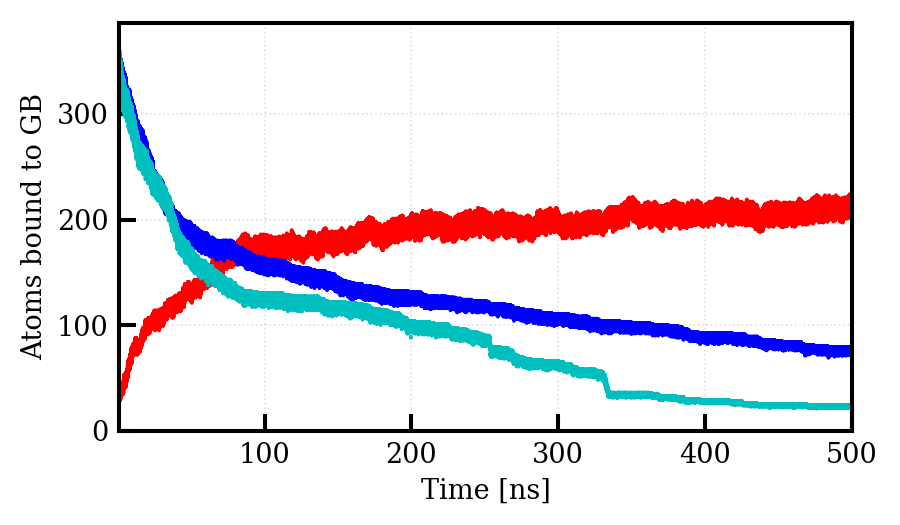
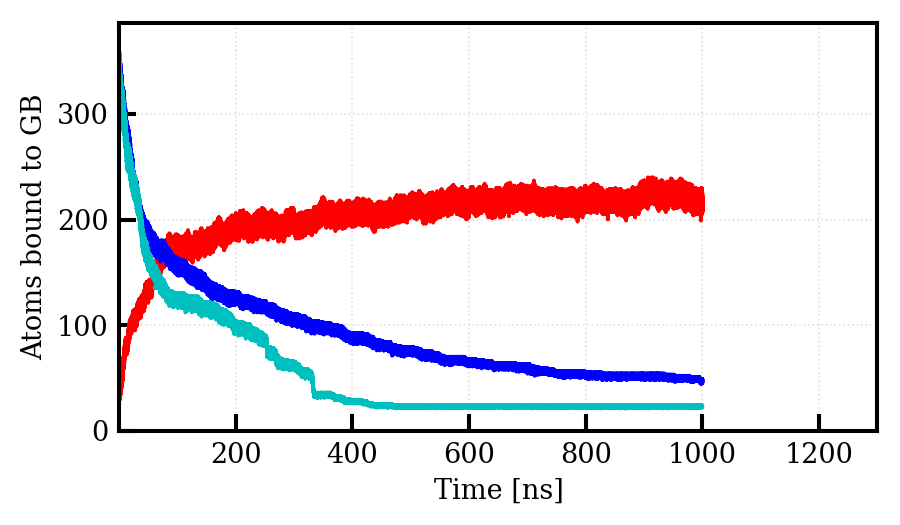
update plotting scripts

diff --git a/figures/plot_GB_isoEx_comp.py b/figures/plot_GB_isoEx_comp.py
@@ -2,8 +2,7 @@ import numpy as np
 import matplotlib.pyplot as plt
 from plotStyle import *
 
-#path = '/media/otto/myDrive/isoEx_NVT/GB_isoEx_results/'
-path = '../../isoEx_NVT/GB_isoEx_results/'
+path = '/home/otto/Drive2/isoEx_NVT/GB_isoEx_results/'
 
 # ============================== READ DATA ==============================
 # Function for reading columnsToRead=[i,j,...] columns from file 'fname'
@@ -20,8 +19,8 @@ def readData(fname, columnsToRead):
     return np.array(data)
 
 # HinVac.out format: Timestep NTinVac NHinVac NTinCell
-tTH_isoEx_500K = readData(path+'GB_9600W_150H_369T_500K_850ns/HinGB.out', [0,1,2])
-tT_diff_500K = readData(path+'GB_9600W_0H_369T_500K_850ns/HinGB.out', [0,1])
+tTH_isoEx_500K = readData(path+'GB_9600W_150H_369T_500K_1000ns/HinGB.out', [0,1,2])
+tT_diff_500K = readData(path+'GB_9600W_0H_369T_500K_1000ns/HinGB.out', [0,1])
 
 # Convert timesteps --> time in ns
 cf = 1e-6
@@ -36,7 +35,7 @@ print('Drawing figures ...')
 fsize = [6.0, 3.5]
 
 # Upper x-axis limit
-xulim = 500.0
+xulim = 1300.0
 
 # axis labels
 ylbl = 'Atoms bound to GB'

diff --git a/figures/plot_disloc_isoEx_comp.py b/figures/plot_disloc_isoEx_comp.py
@@ -2,9 +2,7 @@ import numpy as np
 import matplotlib.pyplot as plt
 from plotStyle import *
 
-#path = '/media/otto/myDrive/isoEx_NVT/disloc_isoEx_results/'
-#path = '../../dislocation_isoEx/disloc_isoEx_results/'
-path = '../../isoEx_NVT/disloc_isoEx_results/'
+path = '/home/otto/Drive2/isoEx_NVT/disloc_isoEx_results/'
 
 # ============================== READ DATA ==============================
 # Function for reading columnsToRead=[i,j,...] columns from file 'fname'

diff --git a/figures/plot_1Vac_isoEx_comp.py b/figures/plot_1Vac_isoEx_comp.py
@@ -2,8 +2,7 @@ import numpy as np
 import matplotlib.pyplot as plt
 from plotStyle import *
 
-#path = '/media/otto/myDrive/isoEx_NVT/1Vac_isoEx_results/'
-path = '/../../isoEx_NVT/1Vac_isoEx_results/'
+path = '/home/otto/Drive2/isoEx_NVT/1Vac_isoEx_results/'
 
 # ============================== READ DATA ==============================
 # Function for reading columnsToRead=[i,j,...] columns from file 'fname'

diff --git a/figures/plot_2Vac_isoEx_comp.py b/figures/plot_2Vac_isoEx_comp.py
@@ -2,8 +2,7 @@ import numpy as np
 import matplotlib.pyplot as plt
 from plotStyle import *
 
-#path = '/media/otto/myDrive/isoEx_NVT/2Vac_isoEx_results/'
-path = '/../../isoEx_NVT/2Vac_isoEx_results/'
+path = '/home/otto/Drive2/isoEx_NVT/2Vac_isoEx_results/'
 
 # ============================== READ DATA ==============================
 # Function for reading columnsToRead=[i,j,...] columns from file 'fname'
